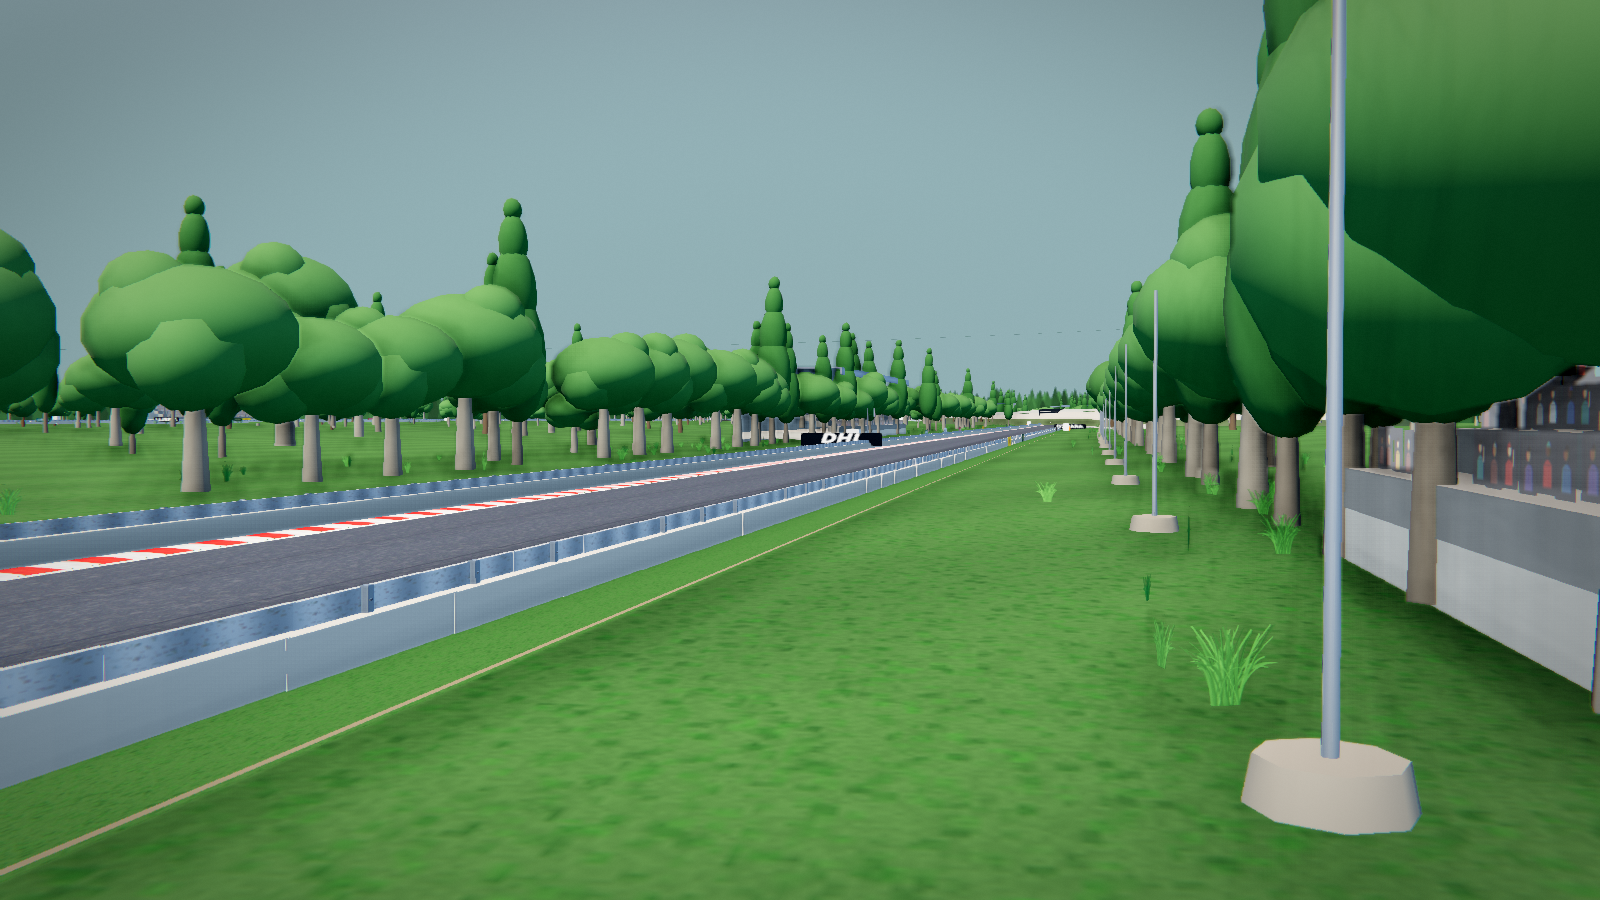
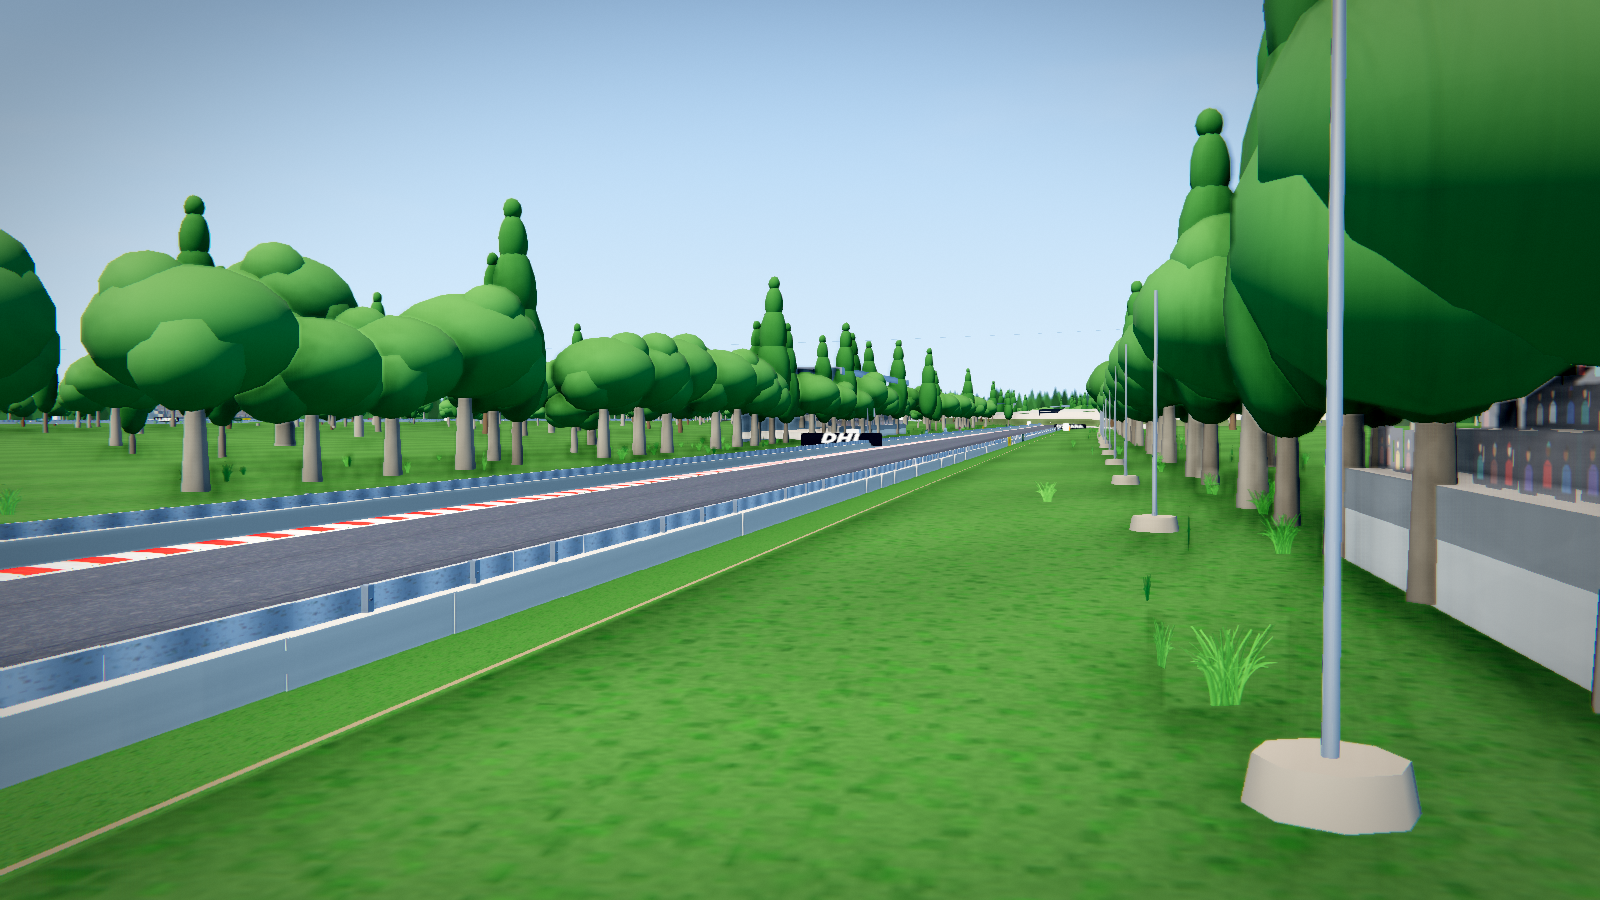
Sky/post fixes: per-circuit look, HDR guard, still-capture correctness
- sky.js: clouds/stars skip their own tone mapping while the composer is in
  charge, and setHDRMode() flips that when the post chain is created/dropped
  (Low preset used to render a washed-out dome)
- sky.js: deterministic per-circuit sky (seeded variance only), patchier and
  less milky clouds, deeper zenith
- track_scene.js: apply data/environments look{exposure,contrast,saturation,
  vignette,warm} on top of the time-of-day grade
- shots.js: tick the world before grabbing (sky dome/shadow focus follow the
  camera) and pin the quality preset while the rig is active
- renderer.js: keep the dome's tone-mapping mode in sync with the composer

Changed region(s): [[0.0, 0.0, 0.8125, 0.4667]]

diff --git a/world/sky.js b/world/sky.js
@@ -205,7 +205,7 @@
     '  float cirrus = fbm(uv * 1.9 + windA + 13.0);',
     '  float cumulus = fbm(uv * 0.85 + windB);',
     '  float cover = uCover;',
-    '  float c1 = smoothstep(0.62 - cover * 0.34, 0.95 - cover * 0.22, cumulus);',
+    '  float c1 = smoothstep(0.70 - cover * 0.34, 1.04 - cover * 0.22, cumulus);',
     '  float c2 = smoothstep(0.55, 0.92, cirrus) * 0.55;',
     '  float density = clamp(c1 * (1.0 - c2 * 0.45) + c2 * 0.6, 0.0, 1.0);',
     '  density *= smoothstep(0.0, 0.16, h);',        /* no clouds below the horizon */
@@ -214,12 +214,12 @@
     /* lighting: silver lining towards the sun, grey undersides away from it */
     '  float sunAmt = pow(max(dot(d, uSunDir), 0.0), 6.0);',
     '  float sunEdge = pow(max(dot(d, uSunDir), 0.0), 2.0);',
-    '  vec3 lit = uTint * (0.9 + 0.6 * sunEdge);',
+    '  vec3 lit = uTint * (1.05 + 0.55 * sunEdge);',
     '  vec3 shade = mix(uSkyBottom * 0.55, uTint * vec3(0.62, 0.66, 0.74), 0.5) * (1.0 - uStorm * 0.35);',
     '  vec3 cloudCol = mix(shade, lit, smoothstep(0.15, 0.85, density)) * 0.94;',
     '  cloudCol += uSunColor * sunAmt * (0.55 - density * 0.25) * (1.0 - uNight * 0.8);',
 
-    '  float alpha = density * 0.74;',
+    '  float alpha = density * 0.62;',
     '  alpha *= mix(1.0, 1.25, uStorm);',
     '  alpha *= smoothstep(0.02, 0.3, h);',
     '  alpha = clamp(alpha, 0.0, 0.94);',
@@ -265,6 +265,24 @@
 
   /* ---------------------------------------------------------------- */
   F1.sky = { presets: ATMOS, presetFor: presetFor };
+
+  /* Turn the dome's built-in tone mapping off (composer present) or back on
+     (plain render to the canvas). Changing a define needs a recompile, but
+     this only happens when the post chain is created or dropped. */
+  F1.sky.setHDRMode = function (raw) {
+    var mats = F1.sky._hdrMats || [];
+    for (var i = 0; i < mats.length; i++) {
+      var m = mats[i];
+      var want = raw ? 1 : 0;
+      var has = m.defines && m.defines.RAW_HDR ? 1 : 0;
+      if (want === has) continue;
+      m.defines = m.defines || {};
+      if (want) m.defines.RAW_HDR = 1; else delete m.defines.RAW_HDR;
+      m.needsUpdate = true;
+    }
+    F1.sky._rawHDR = !!raw;
+  };
+
 
   F1.sky.create = function (meta, opts) {
     opts = opts || {};
@@ -325,9 +343,10 @@
       uBright: { value: p.cloudBright }
     };
     F1.sky._rawHDR = !!(F1.settings && F1.settings.preset && F1.settings.preset().postFX);
-    var clouds = new THREE.Mesh(
-      new THREE.SphereGeometry(2400, 40, 24, 0, Math.PI * 2, 0, Math.PI * 0.55),
-      new THREE.ShaderMaterial({
+    /* every dome material that skips its own tone mapping while the composer
+       is in charge; renderer sets this again whenever the chain changes */
+    F1.sky._hdrMats = [];
+    var cloudMat = new THREE.ShaderMaterial({
         defines: F1.sky._rawHDR ? { RAW_HDR: 1 } : {},
         uniforms: cloudUniforms,
         vertexShader: CLOUD_VS,
@@ -338,7 +357,10 @@
         depthTest: true,
         blending: THREE.NormalBlending,
         fog: false
-      }));
+      });
+    F1.sky._hdrMats.push(cloudMat);
+    var clouds = new THREE.Mesh(
+      new THREE.SphereGeometry(2400, 40, 24, 0, Math.PI * 2, 0, Math.PI * 0.55), cloudMat);
     clouds.frustumCulled = false;
     clouds.renderOrder = -999;
     clouds.name = 'clouds';
@@ -346,14 +368,14 @@
 
     /* ---- stars (only meaningful at night) ------------------------------ */
     var starUniforms = { uAlpha: { value: p.starAlpha }, uTime: { value: 0 } };
-    var stars = new THREE.Mesh(
-      new THREE.SphereGeometry(2300, 32, 20),
-      new THREE.ShaderMaterial({
+    var starMat = new THREE.ShaderMaterial({
         defines: F1.sky._rawHDR ? { RAW_HDR: 1 } : {},
         uniforms: starUniforms, vertexShader: STAR_VS, fragmentShader: STAR_FS,
         side: THREE.BackSide, transparent: true, depthWrite: false, depthTest: true,
         blending: THREE.AdditiveBlending, fog: false
-      }));
+      });
+    F1.sky._hdrMats.push(starMat);
+    var stars = new THREE.Mesh(new THREE.SphereGeometry(2300, 32, 20), starMat);
     stars.frustumCulled = false;
     stars.renderOrder = -998;
     stars.visible = p.starAlpha > 0.02;

diff --git a/world/track_scene.js b/world/track_scene.js
@@ -56,16 +56,23 @@
       /* the per-circuit filmic grade + exposure, applied by the post chain */
       if (F1.post && F1.post.setGrade) {
         var g = world.grade || {};
+        /* a circuit can push the time-of-day look around without touching the
+           global pipeline: data/environments/<id>.js -> look{...} */
+        var look = (world.art && world.art.look) || {};
         /* exposure is a camera property: it has to happen before the tone
            curve, so it goes on the renderer, not in the display-referred grade */
         if (F1.renderer && F1.renderer.renderer) {
-          F1.renderer.renderer.toneMappingExposure = world.exposure || 1;
+          F1.renderer.renderer.toneMappingExposure =
+            (world.exposure || 1) * (look.exposure || 1);
         }
         F1.post.setGrade({
           exposure: 1,
-          contrast: g.contrast, saturation: g.saturation, lift: g.lift,
-          gain: g.gain, tintU: g.tintU,
-          vignette: mode === 'race' ? 0.34 : 0.24,
+          contrast: (g.contrast || 1) * (look.contrast || 1),
+          saturation: (g.saturation || 1) * (look.saturation || 1),
+          lift: g.lift, gain: g.gain,
+          tintU: (g.tintU || 0) + (look.warm || 0),
+          vignette: look.vignette !== undefined ? look.vignette
+            : (mode === 'race' ? 0.34 : 0.24),
           grain: 0.014
         });
         F1.post.setBloom(0.3, 0.55, 0.92);

diff --git a/world/shots.js b/world/shots.js
@@ -97,6 +97,10 @@
 
     open: function (id) {
       F1.shots.close();
+      /* screenshot rig: the auto-quality fallback would silently drop the
+         preset mid-capture (SwiftShader is slow) and every shot would be
+         taken at a different quality */
+      if (F1.settings && F1.settings.graphics) F1.settings.graphics.autoQuality = false;
       var api = F1.trackScene.create(id, { mode: 'shots' });
       state.api = api;
       state.id = id;
@@ -107,6 +111,7 @@
     },
 
     close: function () {
+      if (F1.settings && F1.settings.graphics) F1.settings.graphics.autoQuality = true;
       if (state.api) {
         try { state.api.destroy(); } catch (e) {}
         state.api = null;
@@ -132,6 +137,10 @@
     grab: function () {
       if (!state.api) return null;
       var r = F1.renderer;
+      /* the camera is moved by hand here, so the world has to follow: the sky
+         dome, the shadow focus and the LOD rings are all camera-relative */
+      viewCameraFor(state.api, state.view);
+      state.api.update(0.016);
       viewCameraFor(state.api, state.view);
       if (r.render) r.render(state.scene || state.api.scene, state.api.camera);
       return r.renderer.domElement.toDataURL('image/png');

diff --git a/core/renderer.js b/core/renderer.js
@@ -72,10 +72,12 @@
   /* post chain                                                          */
   /* ------------------------------------------------------------------ */
   R.buildPost = function () {
+    /* the sky dome tone-maps itself only when there is no composer */
     if (!F1.post || !F1.post.available()) { R.post = null; return null; }
     if (!R.quality.postFX) {
       if (F1.post.composer) F1.post.dispose();
       R.post = null;
+      if (F1.sky && F1.sky.setHDRMode) F1.sky.setHDRMode(false);
       return null;
     }
     var scene = R._lastScene || (F1.app && F1.app.sceneApi && F1.app.sceneApi.scene);
@@ -83,6 +85,7 @@
     if (!scene) return null;
     var ok = F1.post.create(R.renderer, scene, cam, R.quality);
     R.post = ok ? F1.post : null;
+    if (F1.sky && F1.sky.setHDRMode) F1.sky.setHDRMode(!!ok);
     if (ok) {
       var dpr = R.pixelRatio || 1;
       F1.post.resize(R.width, R.height, dpr);

diff --git a/debug/OVERHAUL.md b/debug/OVERHAUL.md
@@ -143,6 +143,16 @@ Bugs found and fixed in this section, all of them visible in the after shots:
   sun) and read navy black; now galvanised with a bright albedo.
 * Ground now carries world-space mowing stripes and pasture variation, so the
   grass no longer tiles visibly.
+* **Screenshots were not comparable.** `F1.shots.grab()` rendered straight after
+  moving the camera, without a world tick, so the sky dome was still centred on
+  the *previous* camera position — the gradient collapsed to a flat teal and the
+  sky looked washed out in half the captures. `grab()` now ticks the world once.
+* **Auto-quality silently changed the preset mid-capture.** SwiftShader renders
+  at ~8 fps, the "below 40 fps for 5 s" fallback fired during a capture and some
+  shots were taken at Low (no composer at all). `shots.open()` now pins the
+  quality while the rig is in use, and the sky's tone-mapping guard is switched
+  at runtime (`F1.sky.setHDRMode`) so the Low preset — a real player path — also
+  gets a correctly tone-mapped dome.
 
 Still open in this section (honest list): the asphalt is a stop lighter than
 broadcast Monza in the far distance, the crowd is a texture-lit block rather
